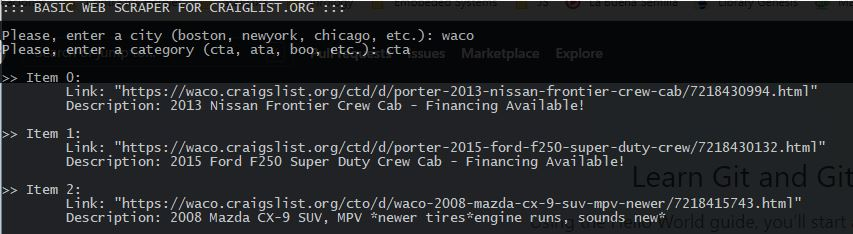
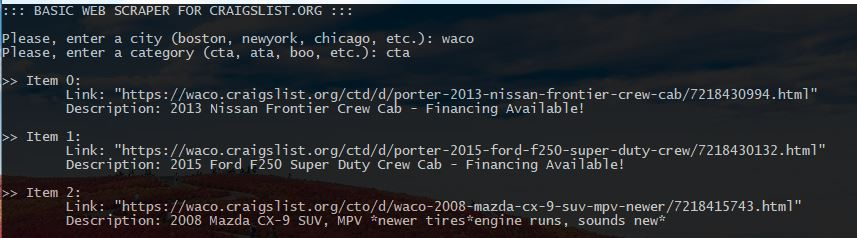
Update image

diff --git a/CA.SimpleWebScraper/Program.cs b/CA.SimpleWebScraper/Program.cs
@@ -8,7 +8,7 @@ namespace CA.SimpleWebScraper
     {
         static void Main(string[] args)
         {
-            Console.WriteLine("::: BASIC WEB SCRAPER FOR CRAIGLIST.ORG :::\n\r");
+            Console.WriteLine("::: BASIC WEB SCRAPER FOR CRAIGSLIST.ORG :::\n\r");
 
             string city, category;
             bool exit = false;
